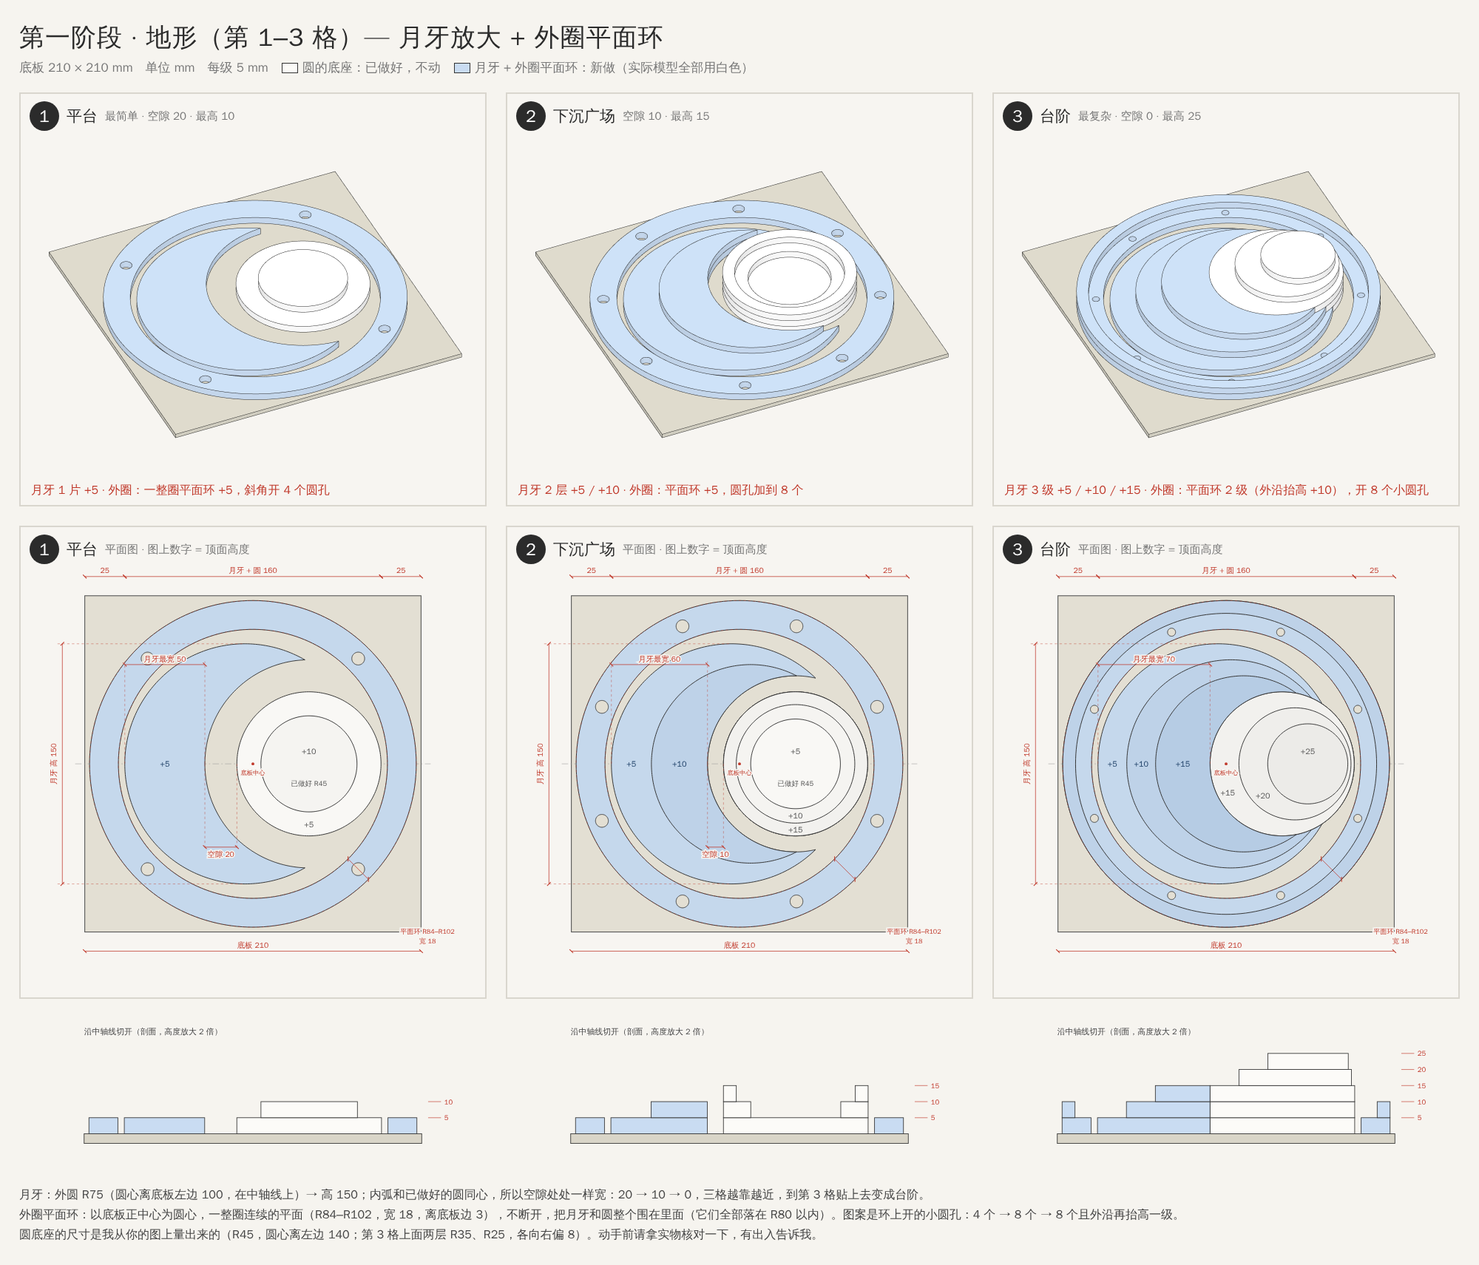
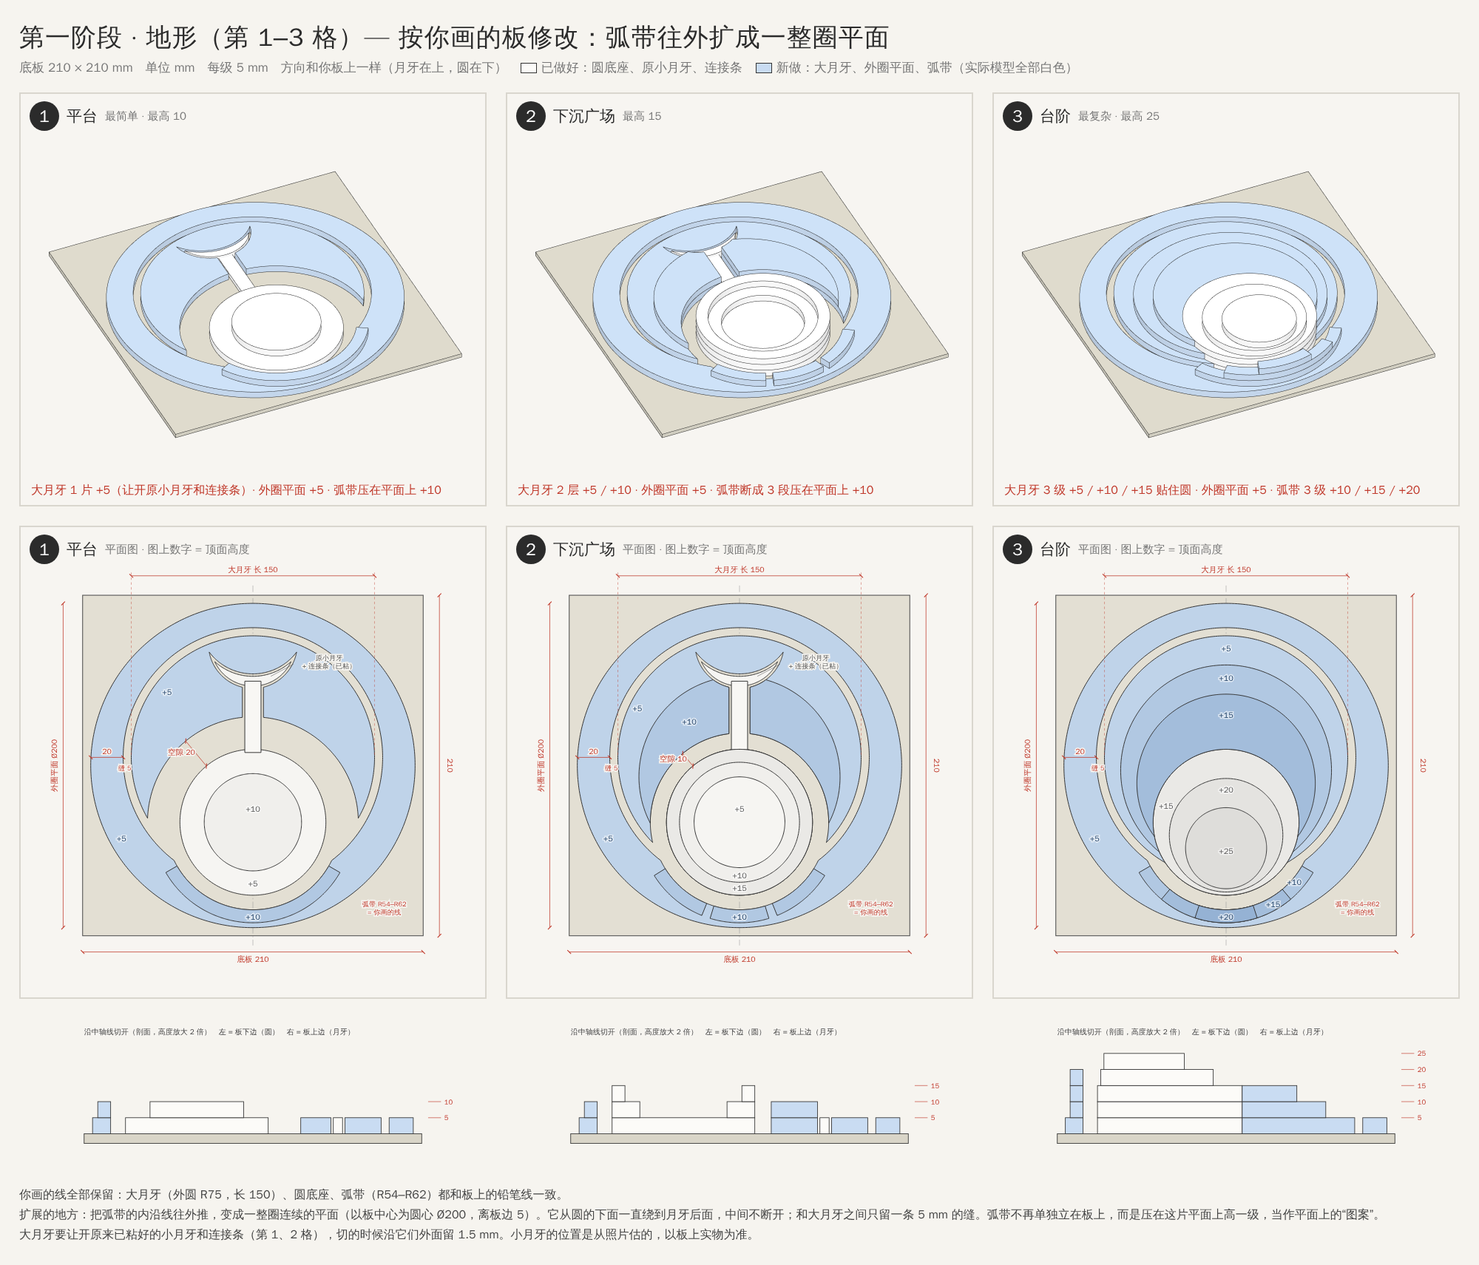
Rework cells 1-3 from the user's drawn boards
Match the board orientation (crescent on top, circle below), keep the
already-glued small crescent and connector, and extend the drawn arc
band into one continuous surround plane with the band raised on it.

Claude-Session: https://claude.ai/code/session_016nWySuNJbcDwqdzrsANd5d

diff --git a/nine-grid-model/draw.js b/nine-grid-model/draw.js
@@ -1,10 +1,10 @@
 import * as THREE from 'three';
-import { BASE, CY, DISC, MOON, EDGE, C0, CELLS } from './shapes.js';
+import { BASE, CX, C0, DISC, MOON, CUT, BAND, CELLS } from './shapes.js';
 
 const SEG = 96;
 const RED = '#c0392b';
-const NEW_FILL = [205, 222, 240];   // 新做的（月牙、弧带）偏蓝
-const OLD_FILL = [252, 251, 248];   // 已做好的圆底座：白
+const NEW_FILL = [205, 222, 240];   // 新做的：偏蓝
+const OLD_FILL = [252, 251, 248];   // 已做好的：白
 
 function head(cell, tag) {
   const d = document.createElement('div');
@@ -76,7 +76,7 @@ function el(parent, name, attrs, text) {
   parent.appendChild(e);
   return e;
 }
-const Y = (y) => BASE - y; // 图纸坐标 y 朝上 → SVG y 朝下
+const Y = (y) => BASE - y;
 
 function shapePath(shape) {
   const loop = (pts) => pts.map((p, i) => `${i ? 'L' : 'M'}${p.x.toFixed(2)} ${Y(p.y).toFixed(2)}`).join('') + 'Z';
@@ -104,25 +104,34 @@ function dim(g, x0, y0, x1, y1, text, opt = {}) {
       x2: x + t * Math.cos(ang), y2: Y(y) + t * Math.sin(ang), stroke: RED, 'stroke-width': 0.5,
     });
   }
-  label(g, (x0 + x1) / 2 + (opt.dx || 0), Y((y0 + y1) / 2) + (opt.dy || 0), text, opt);
+  if (text) label(g, (x0 + x1) / 2 + (opt.dx || 0), Y((y0 + y1) / 2) + (opt.dy || 0), text, opt);
 }
+const guide = (g, x0, y0, x1, y1) => el(g, 'line', { x1: x0, y1: Y(y0), x2: x1, y2: Y(y1), stroke: RED, 'stroke-width': 0.2, 'stroke-dasharray': '1.5 1.5' });
 
 // ---------- 平面图 ----------
+const HEIGHTS = {
+  1: [[52, 150, '+5'], [24, 60, '+5'], [CX, 11.5, '+10'], [CX, 78, '+10', 1], [CX, 32, '+5', 1]],
+  2: [[42, 140, '+5'], [74, 132, '+10'], [24, 60, '+5'], [CX, 11.5, '+10'], [CX, 78, '+5', 1], [CX, 37, '+10', 1], [CX, 29.5, '+15', 1]],
+  3: [[CX, 177, '+5'], [CX, 159, '+10'], [CX, 136, '+15'], [24, 60, '+5'],
+      [147, 33, '+10'], [134, 19.5, '+15'], [CX, 11.5, '+20'],
+      [68, 80, '+15', 1], [CX, 90, '+20', 1], [CX, 52, '+25', 1]],
+};
+
 function plan(cell) {
   const box = document.createElement('div');
   box.className = 'cell plan';
   box.appendChild(head(cell, '平面图 · 图上数字 = 顶面高度'));
   document.getElementById('plan').appendChild(box);
 
-  const svg = el(box, 'svg', { viewBox: '-40 -36 290 280', preserveAspectRatio: 'xMidYMid meet' });
+  const svg = el(box, 'svg', { viewBox: '-36 -42 282 290', preserveAspectRatio: 'xMidYMid meet' });
   el(svg, 'rect', { x: 0, y: 0, width: BASE, height: BASE, fill: '#e3dfd3', stroke: '#555', 'stroke-width': 0.5 });
-  el(svg, 'line', { x1: -6, y1: Y(CY), x2: BASE + 6, y2: Y(CY), stroke: '#999', 'stroke-width': 0.25, 'stroke-dasharray': '4 1.5 0.8 1.5' });
+  el(svg, 'line', { x1: CX, y1: -6, x2: CX, y2: BASE + 6, stroke: '#999', 'stroke-width': 0.25, 'stroke-dasharray': '4 1.5 0.8 1.5' });
 
   const top = 25;
   [...cell.parts].sort((a, b) => a.z0 - b.z0).forEach((p) => {
-    const k = 1 - 0.55 * ((p.z0 + p.h) / top);          // 越高越深
-    const c = p.fixed ? OLD_FILL.map((v) => Math.round(v - 30 * (1 - k)))
-                      : NEW_FILL.map((v, i) => Math.round(v - [70, 55, 35][i] * (1 - k)));
+    const k = (p.z0 + p.h) / top;
+    const c = p.fixed ? OLD_FILL.map((v) => Math.round(v - 30 * k))
+                      : NEW_FILL.map((v, i) => Math.round(v - [70, 55, 35][i] * k));
     el(svg, 'path', {
       d: shapePath(p.shape), fill: `rgb(${c})`, 'fill-rule': 'evenodd',
       stroke: '#333', 'stroke-width': 0.45, 'stroke-linejoin': 'round',
@@ -130,64 +139,43 @@ function plan(cell) {
   });
 
   const g = el(svg, 'g', {});
-  const D = DISC, M = MOON, E = EDGE;
-  const xl = M.x - M.r, xr = D.x + D.r;
+  const D = DISC, M = MOON;
+  // 底板
+  dim(g, 0, -10, BASE, -10, '底板 210', { dy: 6 });
+  dim(g, BASE + 10, 0, BASE + 10, BASE, '210', { dx: 5, rot: 90 });
+  // 大月牙长 150
+  dim(g, M.x - M.r, BASE + 12, M.x + M.r, BASE + 12, '大月牙 长 150', { dy: -2 });
+  guide(g, M.x - M.r, BASE + 14, M.x - M.r, M.y); guide(g, M.x + M.r, BASE + 14, M.x + M.r, M.y);
+  // 外圈平面
+  dim(g, 5, M.y, M.x - M.r - CUT, M.y, '20', { dy: -2 });
+  dim(g, -12, C0.y - C0.r, -12, C0.y + C0.r, '外圈平面 Ø200', { dx: -4, rot: -90 });
+  label(g, 26, Y(M.y) + 8, `缝 ${CUT}`, { size: 4.2 });
+  // 弧带
+  label(g, 186, Y(18), '弧带 R54–R62', { size: 4.2 });
+  label(g, 186, Y(13), '= 你画的线', { size: 4.2 });
+  // 空隙（月牙内弧与圆之间）
+  if (cell.gap) {
+    const u = [Math.cos(Math.PI * 0.72), Math.sin(Math.PI * 0.72)];
+    dim(g, D.x + 45 * u[0], D.y + 45 * u[1], D.x + (45 + cell.gap) * u[0], D.y + (45 + cell.gap) * u[1], `空隙 ${cell.gap}`, { dx: -9, dy: 1 });
+  }
+  if (cell.n !== 3) {
+    label(g, 152, Y(170), '原小月牙', { size: 4.2, fill: '#555' });
+    label(g, 152, Y(165), '+ 连接条（已粘）', { size: 4.2, fill: '#555' });
+    el(g, 'line', { x1: 130, y1: Y(167.5), x2: 116, y2: Y(160), stroke: '#555', 'stroke-width': 0.25 });
+  }
 
-  dim(g, 0, -12, BASE, -12, '底板 210', { dy: -2 });
-  dim(g, -14, CY - M.r, -14, CY + M.r, '月牙 高 150', { dx: -4, rot: -90 });
-  for (const s of [1, -1]) {
-    el(g, 'line', { x1: -17, y1: Y(CY + s * M.r), x2: M.x, y2: Y(CY + s * M.r), stroke: RED, 'stroke-width': 0.2, 'stroke-dasharray': '1.5 1.5' });
+  for (const [x, y, s, old] of HEIGHTS[cell.n]) {
+    label(g, x, Y(y) + 1.7, s, { fill: old ? '#555' : '#1d3f66', bold: true, size: 5, halo: 'rgba(255,255,255,0.6)' });
   }
-  dim(g, 0, BASE + 12, xl, BASE + 12, `${xl}`, { dy: -2 });
-  dim(g, xl, BASE + 12, xr, BASE + 12, `月牙 + 圆 ${xr - xl}`, { dy: -2 });
-  dim(g, xr, BASE + 12, BASE, BASE + 12, `${BASE - xr}`, { dy: -2 });
-
-  // 月牙最宽处、空隙
-  const inner = D.x - D.r - cell.gap;
-  dim(g, xl, CY + 62, inner, CY + 62, `月牙最宽 ${inner - xl}`, { dy: -2 });
-  for (const x of [xl, inner]) {
-    el(g, 'line', { x1: x, y1: Y(CY), x2: x, y2: Y(CY + 64), stroke: RED, 'stroke-width': 0.2, 'stroke-dasharray': '1.5 1.5' });
-  }
-  if (cell.gap) dim(g, inner, CY - 52, D.x - D.r, CY - 52, `空隙 ${cell.gap}`, { dy: 6 });
-  if (cell.gap) for (const x of [inner, D.x - D.r]) {
-    el(g, 'line', { x1: x, y1: Y(CY), x2: x, y2: Y(CY - 54), stroke: RED, 'stroke-width': 0.2, 'stroke-dasharray': '1.5 1.5' });
-  }
-
-  // 外圈平面环
-  for (const r of [E.ri, E.ro]) {
-    el(g, 'circle', { cx: C0, cy: Y(CY), r, fill: 'none', stroke: RED, 'stroke-width': 0.2, 'stroke-dasharray': '1.5 1.5' });
-  }
-  el(g, 'circle', { cx: C0, cy: Y(CY), r: 0.9, fill: RED });
-  label(g, C0, Y(CY) + 7, '底板中心', { size: 3.8 });
-  const q = Math.SQRT1_2;
-  dim(g, C0 + E.ri * q, CY - E.ri * q, C0 + E.ro * q, CY - E.ro * q, '', {});
-  label(g, BASE + 4, BASE + 1, `平面环 R${E.ri}–R${E.ro}`, { size: 4.2 });
-  label(g, BASE + 4, BASE + 7, `宽 ${E.ro - E.ri}`, { size: 4.2 });
-
-  // 顶面高度
-  const hgt = (x, y, s, o = {}) => label(g, x, Y(y) + 1.7, s, { fill: '#1d3f66', halo: 'none', bold: true, size: 5, ...o });
-  if (cell.n === 1) {
-    hgt(50, CY, '+5');
-    hgt(D.x, CY + 8, '+10', { fill: '#555' }); hgt(D.x, CY - 38, '+5', { fill: '#555' });
-  }
-  if (cell.n === 2) {
-    hgt(37.5, CY, '+5'); hgt(67.5, CY, '+10');
-    hgt(D.x, CY + 8, '+5', { fill: '#555' }); hgt(D.x, CY - 32.5, '+10', { fill: '#555' }); hgt(D.x, CY - 41, '+15', { fill: '#555' });
-  }
-  if (cell.n === 3) {
-    hgt(34, CY, '+5'); hgt(52, CY, '+10'); hgt(78, CY, '+15');
-    hgt(D.x - 34, CY - 18, '+15', { fill: '#555' }); hgt(D.x - 12, CY - 20, '+20', { fill: '#555' }); hgt(156, CY + 8, '+25', { fill: '#555' });
-  }
-  label(g, D.x, Y(CY - 14), cell.n === 3 ? '' : '已做好 R45', { fill: '#555', size: 4.4, halo: 'none' });
 }
 
-// ---------- 剖面（沿中轴线切开） ----------
-function inside(shape, x) {
+// ---------- 剖面（沿竖向中轴线切开） ----------
+function inside(shape, px, py) {
   const hit = (pts) => {
     let c = false;
     for (let i = 0, j = pts.length - 1; i < pts.length; j = i++) {
       const a = pts[i], b = pts[j];
-      if ((a.y > CY) !== (b.y > CY) && x < ((b.x - a.x) * (CY - a.y)) / (b.y - a.y) + a.x) c = !c;
+      if ((a.x > px) !== (b.x > px) && py < ((b.y - a.y) * (px - a.x)) / (b.x - a.x) + a.y) c = !c;
     }
     return c;
   };
@@ -199,19 +187,20 @@ function section(cell) {
   const box = document.createElement('div');
   box.className = 'cell sec';
   document.getElementById('sec').appendChild(box);
-  const K = 2;                                     // 高度放大 2 倍，看得清
+  const K = 2;
   const svg = el(box, 'svg', { viewBox: '-40 -72 290 92', preserveAspectRatio: 'xMidYMid meet' });
-  label(svg, 0, -62, `沿中轴线切开（剖面，高度放大 ${K} 倍）`, { anchor: 'start', fill: '#444', size: 5 });
+  label(svg, 0, -62, `沿中轴线切开（剖面，高度放大 ${K} 倍）　左 = 板下边（圆）　右 = 板上边（月牙）`, { anchor: 'start', fill: '#444', size: 4.6 });
   el(svg, 'rect', { x: 0, y: 0, width: BASE, height: 3 * K, fill: '#d9d5c8', stroke: '#333', 'stroke-width': 0.4 });
   let top = 0;
+  const px = cell.n === 3 ? CX : CX + 7;   // 第 1、2 格偏开连接条一点
   for (const p of cell.parts) {
     let start = null;
-    for (let x = 0; x <= BASE + 0.25; x += 0.25) {
-      const on = x <= BASE && inside(p.shape, x + 0.01);
-      if (on && start === null) start = x;
+    for (let t = 0; t <= BASE + 0.25; t += 0.25) {
+      const on = t <= BASE && inside(p.shape, px, t + 0.01);
+      if (on && start === null) start = t;
       if (!on && start !== null) {
         el(svg, 'rect', {
-          x: start, y: -(p.z0 + p.h) * K, width: x - start, height: p.h * K,
+          x: start, y: -(p.z0 + p.h) * K, width: t - start, height: p.h * K,
           fill: p.fixed ? '#fcfbf8' : '#c9dcf2', stroke: '#333', 'stroke-width': 0.4,
         });
         start = null;

diff --git a/nine-grid-model/shapes.js b/nine-grid-model/shapes.js
@@ -1,110 +1,100 @@
 // 第一阶段 · 地形（第 1–3 格）。单位 mm，底板 210 × 210，原点在左下角。
-// 圆的底座 (fixed) 已经做好，不动；月牙和外圈花边 (new) 是重新设计的。
-// 平面图、剖面、轴测图共用这一份数据。
+// 方向和你画在板上的一样：月牙在上，圆在下，弧带在圆的下面。
+// fixed = 已经做好 / 已粘上的（圆底座、原来的小月牙、连接条），不动。
 import * as THREE from 'three';
+import pc from 'polygon-clipping';
 
 export const BASE = 210;
-export const CY = 105;                    // 所有图形共用的水平中轴线
-export const DISC = { x: 140, r: 45 };    // 已做好的主圆：圆心离左边 140，R45
-export const MOON = { x: 100, r: 75 };    // 月牙外圆：圆心离左边 100，R75 → 高 150
-export const C0 = 105;                    // 花边环的圆心 = 底板正中心
-export const EDGE = { ri: 84, ro: 102, rm: 93 }; // 外圈平面环：R84–R102，宽 18；月牙和圆全部落在 R80 以内
+export const CX = 105;                       // 竖向中轴线
+export const C0 = { x: 105, y: 105, r: 100 }; // 外圈平面：底板中心，R100（离板边 5）
+export const DISC = { x: 105, y: 70, r: 45 }; // 已做好的圆底座
+export const MOON = { x: 105, y: 110, r: 75 };// 大月牙外圆 R75 → 长 150
+export const CUT = 5;                          // 大月牙和外圈平面之间的缝
+export const BAND = { ri: 54, ro: 62 };        // 你画的弧带（与圆同心）
 
-const rad = (d) => (d * Math.PI) / 180;
+// ---------- 多边形布尔运算 ----------
+const N = 360;
+export function circ(x, y, r) {
+  const ring = [];
+  for (let i = 0; i < N; i++) { const a = (i / N) * 2 * Math.PI; ring.push([x + r * Math.cos(a), y + r * Math.sin(a)]); }
+  ring.push(ring[0]);
+  return [[ring]];
+}
+function sector(x, y, ri, ro, a0, a1) {          // 角度：0° 朝右，逆时针
+  const pts = [], n = Math.max(8, Math.ceil(Math.abs(a1 - a0) * 2));
+  for (let i = 0; i <= n; i++) { const a = ((a0 + ((a1 - a0) * i) / n) * Math.PI) / 180; pts.push([x + ro * Math.cos(a), y + ro * Math.sin(a)]); }
+  for (let i = n; i >= 0; i--) { const a = ((a0 + ((a1 - a0) * i) / n) * Math.PI) / 180; pts.push([x + ri * Math.cos(a), y + ri * Math.sin(a)]); }
+  pts.push(pts[0]);
+  return [[pts]];
+}
+const rect = (x0, y0, x1, y1) => [[[[x0, y0], [x1, y0], [x1, y1], [x0, y1], [x0, y0]]]];
+const sub = (a, ...b) => pc.difference(a, ...b);
+const add = (...a) => pc.union(...a);
 
-export function disc(x, r) {
-  const s = new THREE.Shape();
-  s.absarc(x, CY, r, 0, Math.PI * 2, false);
+// MultiPolygon → THREE.Shape[]（每一片单独一块）
+function toShapes(mp) {
+  return mp.map((poly) => {
+  const toPath = (P, ring) => { ring.slice(0, -1).forEach(([x, y], i) => (i ? P.lineTo(x, y) : P.moveTo(x, y))); P.closePath(); return P; };
+  const s = toPath(new THREE.Shape(), poly[0]);
+  for (const h of poly.slice(1)) s.holes.push(toPath(new THREE.Path(), h));
+  s.userData = { pieces: mp.length };
   return s;
+  });
 }
 
-export function ring(x, ro, ri) {
-  const s = disc(x, ro);
-  const h = new THREE.Path();
-  h.absarc(x, CY, ri, 0, Math.PI * 2, true);
-  s.holes.push(h);
-  return s;
-}
+const D = DISC, M = MOON;
+const dc = (r, dy = 0) => circ(D.x, D.y + dy, r);
 
-// 月牙 = 圆 (x1, r1) 减去 圆 (x2, r2)，x2 > x1，开口朝右
-export function crescent(x1, r1, x2, r2) {
-  const d = x2 - x1;
-  const px = (r1 * r1 - r2 * r2 + d * d) / (2 * d);
-  const py = Math.sqrt(r1 * r1 - px * px);
-  const a1 = Math.atan2(py, px);
-  const a2 = Math.atan2(py, px - d);
-  const s = new THREE.Shape();
-  s.absarc(x1, CY, r1, a1, Math.PI * 2 - a1, false);
-  s.absarc(x2, CY, r2, Math.PI * 2 - a2, a2, true);
-  s.closePath();
-  s.userData = { tipX: x1 + px, tipY: py };
-  return s;
-}
+// 原来已粘好的小月牙（开口朝上）+ 连接条（照片估的位置）
+const smallMoon = sub(circ(CX, 179.9, 25.9), circ(CX, 195.2, 35.2));
+const strip = rect(CX - 5, 113, CX + 5, 157);
+const keepOut = add(sub(circ(CX, 179.9, 27.4), circ(CX, 195.2, 33.7)), rect(CX - 6.5, 100, CX + 6.5, 158));
 
-// 弧带：圆心 (x, CY)，角度 a0→a1（度，0° 朝右）
-export function band(x, ri, ro, a0, a1) {
-  const s = new THREE.Shape();
-  s.absarc(x, CY, ro, rad(a0), rad(a1), false);
-  s.absarc(x, CY, ri, rad(a1), rad(a0), true);
-  s.closePath();
-  return s;
-}
+// 大月牙一层 = 外圆 (cy, r) 减 与圆同心的内圆 (D, ri)
+const moonLayer = (cy, r, ri, avoid) => (avoid ? sub(circ(CX, cy, r), dc(ri), keepOut) : sub(circ(CX, cy, r), dc(ri)));
 
-const D = DISC, M = MOON, E = EDGE;
-const moon = (gap) => crescent(M.x, M.r, D.x, D.r + gap); // 内弧与主圆同心，空隙处处相等
-// 外圈：一整圈连续的平面环（不断开），图案 = 环上开 n 个圆孔
-function plate(ri, ro, n = 0, holeR = 0, holeRm = 0, a0 = 0) {
-  const s = ring(C0, ro, ri);
-  for (let i = 0; i < n; i++) {
-    const a = rad(a0 + (i * 360) / n);
-    const h = new THREE.Path();
-    h.absarc(C0 + holeRm * Math.cos(a), CY + holeRm * Math.sin(a), holeR, 0, Math.PI * 2, true);
-    s.holes.push(h);
-  }
-  return s;
-}
+// 外圈平面：底板中心 R100，挖掉大月牙外圆 + 缝，挖掉圆和弧带内沿 → 一整片连续的环
+export const plane = sub(circ(C0.x, C0.y, C0.r), circ(M.x, M.y, M.r + CUT), dc(BAND.ri));
+const band = (a0, a1, ri = BAND.ri) => sector(D.x, D.y, ri, BAND.ro, -90 + a0, -90 + a1);
 
-// 每一格 = 若干块 { shape, z0 起始高度, h 厚度, fixed 已做好 }
+const P = (mp, z0, h, fixed = false) => toShapes(mp).map((shape) => ({ shape, z0, h, fixed }));
+
 export const CELLS = [
   {
-    n: 1, title: '平台', sub: '最简单 · 空隙 20 · 最高 10',
-    gap: 20, edge: '平面环 +5，开 4 个圆孔 Ø8',
-    note: '月牙 1 片 +5 · 外圈：一整圈平面环 +5，斜角开 4 个圆孔',
+    n: 1, title: '平台', sub: '最简单 · 最高 10', gap: 20,
+    note: '大月牙 1 片 +5（让开原小月牙和连接条）· 外圈平面 +5 · 弧带压在平面上 +10',
     parts: [
-      { shape: disc(D.x, 45), z0: 0, h: 5, fixed: true },
-      { shape: disc(D.x, 30), z0: 5, h: 5, fixed: true },
-      { shape: moon(20), z0: 0, h: 5 },
-      { shape: plate(E.ri, E.ro, 4, 4, E.rm, 45), z0: 0, h: 5 },
-    ],
+      P(dc(45), 0, 5, true), P(dc(30), 5, 5, true),
+      P(smallMoon, 0, 5, true), P(strip, 0, 3, true),
+      P(moonLayer(M.y, M.r, 65, true), 0, 5),
+      P(plane, 0, 5),
+      P(band(-60, 60), 5, 5),
+    ].flat(),
   },
   {
-    n: 2, title: '下沉广场', sub: '空隙 10 · 最高 15',
-    gap: 10, edge: '平面环 +5，开 8 个圆孔 Ø8',
-    note: '月牙 2 层 +5 / +10 · 外圈：平面环 +5，圆孔加到 8 个',
+    n: 2, title: '下沉广场', sub: '最高 15', gap: 10,
+    note: '大月牙 2 层 +5 / +10 · 外圈平面 +5 · 弧带断成 3 段压在平面上 +10',
     parts: [
-      { shape: disc(D.x, 45), z0: 0, h: 5, fixed: true },
-      { shape: ring(D.x, 45, 28), z0: 5, h: 5, fixed: true },
-      { shape: ring(D.x, 45, 37), z0: 10, h: 5, fixed: true },
-      { shape: moon(10), z0: 0, h: 5 },
-      { shape: crescent(112, 62, D.x, 55), z0: 5, h: 5 },
-      { shape: plate(E.ri, E.ro, 8, 4, E.rm, 22.5), z0: 0, h: 5 },
-    ],
+      P(dc(45), 0, 5, true),
+      P(sub(dc(45), dc(28)), 5, 5, true), P(sub(dc(45), dc(37)), 10, 5, true),
+      P(smallMoon, 0, 5, true), P(strip, 0, 3, true),
+      P(moonLayer(M.y, M.r, 55, true), 0, 5),
+      P(moonLayer(98, 62, 55, true), 5, 5),
+      P(plane, 0, 5),
+      P(band(-58, -22), 5, 5), P(band(-17, 17), 5, 5), P(band(22, 58), 5, 5),
+    ].flat(),
   },
   {
-    n: 3, title: '台阶', sub: '最复杂 · 空隙 0 · 最高 25',
-    gap: 0, edge: '平面环 2 级：R84–R102 +5，外沿 R94–R102 +10；内圈开 8 个圆孔 Ø5',
-    note: '月牙 3 级 +5 / +10 / +15 · 外圈：平面环 2 级（外沿抬高 +10），开 8 个小圆孔',
+    n: 3, title: '台阶', sub: '最复杂 · 最高 25', gap: 0,
+    note: '大月牙 3 级 +5 / +10 / +15 贴住圆 · 外圈平面 +5 · 弧带 3 级 +10 / +15 / +20',
     parts: [
-      { shape: disc(D.x, 45), z0: 0, h: 5, fixed: true },
-      { shape: disc(D.x, 45), z0: 5, h: 5, fixed: true },
-      { shape: disc(D.x, 45), z0: 10, h: 5, fixed: true },
-      { shape: disc(148, 35), z0: 15, h: 5, fixed: true },
-      { shape: disc(156, 25), z0: 20, h: 5, fixed: true },
-      { shape: moon(0), z0: 0, h: 5 },
-      { shape: crescent(108, 65, D.x, 45), z0: 5, h: 5 },
-      { shape: crescent(116, 55, D.x, 45), z0: 10, h: 5 },
-      { shape: plate(E.ri, E.ro, 8, 2.5, 89, 22.5), z0: 0, h: 5 },
-      { shape: plate(94, E.ro), z0: 5, h: 5 },
-    ],
+      P(dc(45), 0, 5, true), P(dc(45), 5, 5, true), P(dc(45), 10, 5, true),
+      P(dc(35, -8), 15, 5, true), P(dc(25, -16), 20, 5, true),
+      P(moonLayer(M.y, M.r, 45), 0, 5),
+      P(moonLayer(102, 65, 45), 5, 5),
+      P(moonLayer(94, 55, 45), 10, 5),
+      P(plane, 0, 5),
+      P(band(-60, 60), 5, 5), P(band(-40, 40), 10, 5), P(band(-18, 18), 15, 5),
+    ].flat(),
   },
 ];

diff --git a/nine-grid-model/index.html b/nine-grid-model/index.html
@@ -29,18 +29,18 @@
 </head>
 <body>
 <div id="sheet">
-  <h1>第一阶段 · 地形（第 1–3 格）— 月牙放大 + 外圈平面环</h1>
-  <p class="lead legend">底板 210 × 210 mm　单位 mm　每级 5 mm<i style="background:#fcfbf8"></i>圆的底座：已做好，不动<i style="background:#c9dcf2"></i>月牙 + 外圈平面环：新做（实际模型全部用白色）</p>
+  <h1>第一阶段 · 地形（第 1–3 格）— 按你画的板修改：弧带往外扩成一整圈平面</h1>
+  <p class="lead legend">底板 210 × 210 mm　单位 mm　每级 5 mm　方向和你板上一样（月牙在上，圆在下）<i style="background:#fcfbf8"></i>已做好：圆底座、原小月牙、连接条<i style="background:#c9dcf2"></i>新做：大月牙、外圈平面、弧带（实际模型全部白色）</p>
   <div class="row" id="axon"></div>
   <div class="row" id="plan"></div>
   <div class="row" id="sec"></div>
   <div class="foot">
-    月牙：外圆 R75（圆心离底板左边 100，在中轴线上）→ 高 150；内弧和已做好的圆同心，所以空隙处处一样宽：20 → 10 → 0，三格越靠越近，到第 3 格贴上去变成台阶。<br>
-    外圈平面环：以底板正中心为圆心，一整圈连续的平面（R84–R102，宽 18，离底板边 3），不断开，把月牙和圆整个围在里面（它们全部落在 R80 以内）。图案是环上开的小圆孔：4 个 → 8 个 → 8 个且外沿再抬高一级。<br>
-    圆底座的尺寸是我从你的图上量出来的（R45，圆心离左边 140；第 3 格上面两层 R35、R25，各向右偏 8）。动手前请拿实物核对一下，有出入告诉我。
+    你画的线全部保留：大月牙（外圆 R75，长 150）、圆底座、弧带（R54–R62）都和板上的铅笔线一致。<br>
+    扩展的地方：把弧带的内沿线往外推，变成一整圈连续的平面（以板中心为圆心 Ø200，离板边 5）。它从圆的下面一直绕到月牙后面，中间不断开；和大月牙之间只留一条 5 mm 的缝。弧带不再单独立在板上，而是压在这片平面上高一级，当作平面上的“图案”。<br>
+    大月牙要让开原来已粘好的小月牙和连接条（第 1、2 格），切的时候沿它们外面留 1.5 mm。小月牙的位置是从照片估的，以板上实物为准。
   </div>
 </div>
-<script type="importmap">{ "imports": { "three": "./node_modules/three/build/three.module.js" } }</script>
+<script type="importmap">{ "imports": { "three": "./node_modules/three/build/three.module.js", "polygon-clipping": "./node_modules/polygon-clipping/dist/polygon-clipping.esm.js", "splaytree": "./node_modules/splaytree/dist/splaytree.js", "robust-predicates": "./node_modules/robust-predicates/index.js" } }</script>
 <script type="module" src="./draw.js"></script>
 </body>
 </html>
